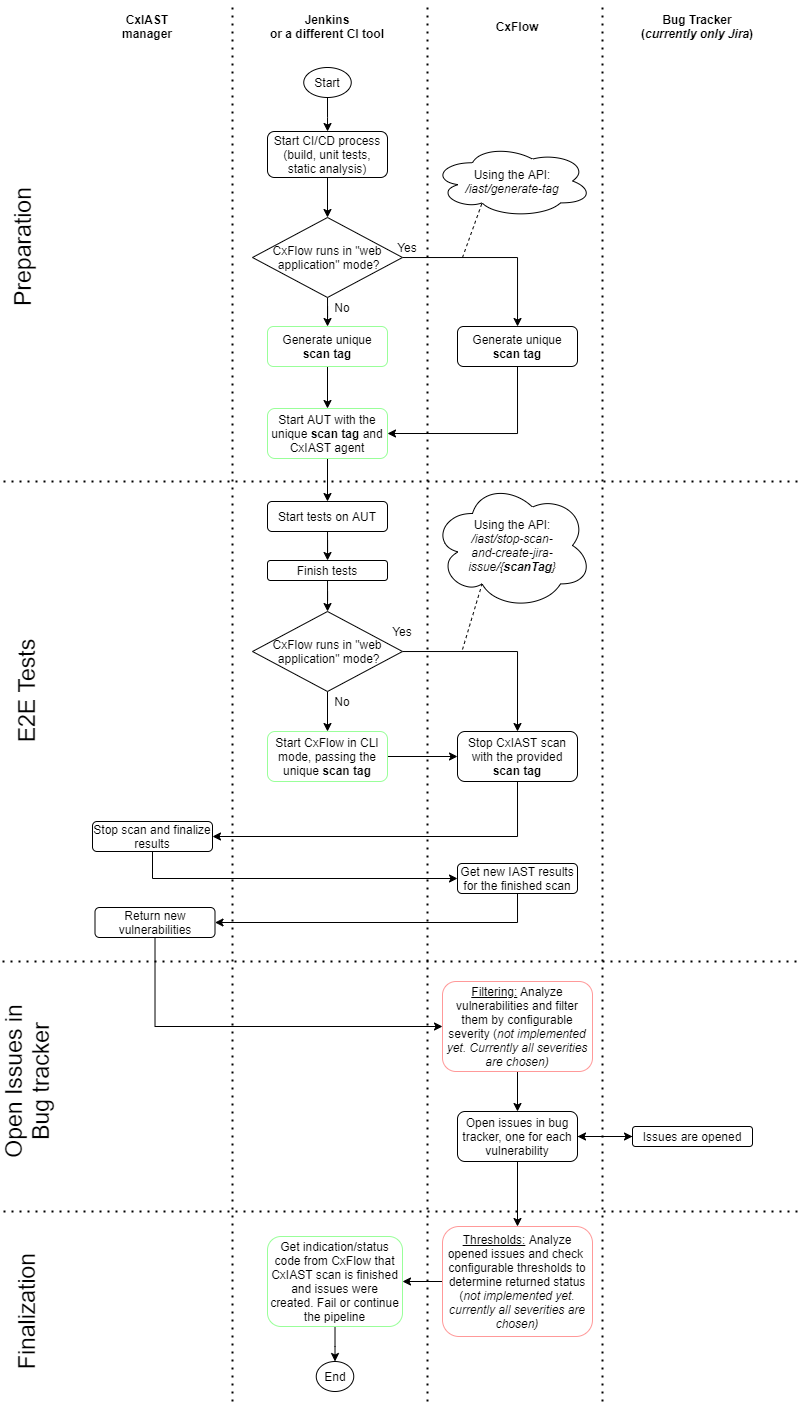
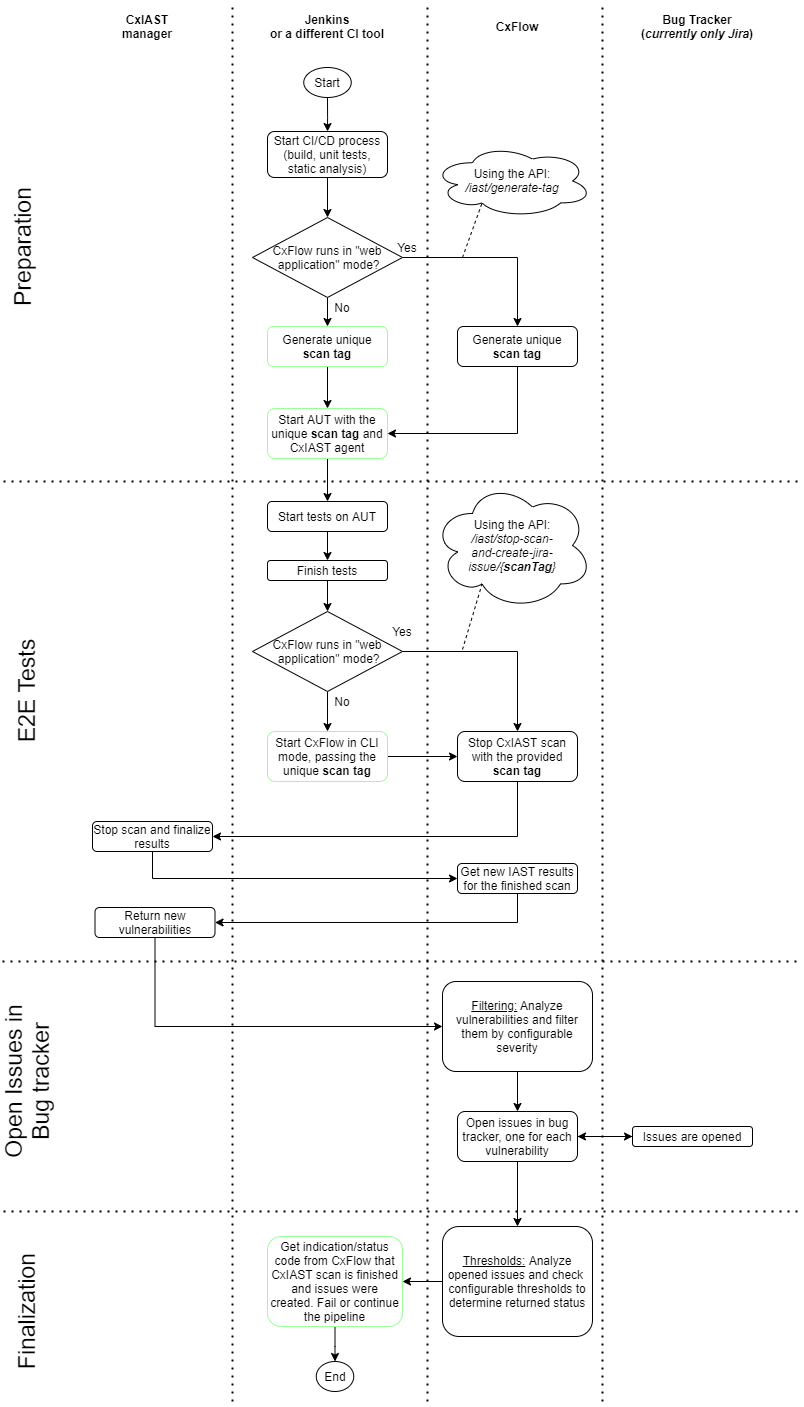
fix documentation. add example of command for start cx-flow and remove old information about not implemented features.

Changed region(s): [[0.5597, 0.8557, 0.7463, 0.9474], [0.5597, 0.7029, 0.7463, 0.764], [0.5908, 0.1222, 0.6841, 0.1528]]

diff --git a/docs/CxIAST-Integration.md b/docs/CxIAST-Integration.md
@@ -3,6 +3,7 @@
 * [Filters](#filters)
 * [Thresholds](#thresholds)
 * [Bug Trackers](#bugTrackers)
+* [Example of CLI command](#exampleOfCli)
 
 ## <a name="suggestedFlow">Suggested Flow</a>
 CxIAST can be integrated within a CI/CD pipeline using CxFlow.  
@@ -28,23 +29,23 @@ iast:
   manager-port: 8380
   username: xxxx
   password: xxxx
-  update-token-seconds: 150  # CxAccessControl token timeout
+  update-token-seconds: 250  # CxAccessControl token timeout
 ```
  
-## <a name="filters">Filters - to be implemented</a>
+## <a name="filters">Filters</a>
 CxFlow may filter CxIAST vulnerabilities according to the vulnerability severity before creating bug tracker tickets.  
 To allow severities, add the relevant severity to the `iast` section in the configuration file:
 ```
 iast:
   filter-severity:
-    - high
-    - medium
-    - low
-    - info    
+    - HIGH
+    - MEDIUM
+    - LOW
+    - INFO    
 ```
-To ignore a severity, remove that severity from the configuration file.
+To ignore a severity, remove or comment that severity from the configuration file.
 
-## <a name="thresholds">Thresholds - to be implemented</a>
+## <a name="thresholds">Thresholds</a>
 CxFlow returns a status the the CI pipeline when called.  
 To control this, a threshold can be configured per vulnerability severity.  
 Each severity threshold is determined by the allowed vulnerability count with that severity.  
@@ -53,13 +54,13 @@ Thresholds are configured in the `iast` section:
 ```
 iast:
   thresholds-severity:
-    high: 1
-    medium: 3
-    low: 10
-    info: -1
+    HIGH: 1
+    MEDIUM: 3
+    LOW: 10
+    INFO: -1
 ```
 When triggered in CLI mode, CxFlow returns status code `10`, if a threshold has been exceeded.  
-When triggered in web mode, the `/iast/stop-scan-and-create-jira-issue/{scanTag}` returns `Threshold exceeded: <threshold information>` in the HTTP body.
+When triggered in web mode, the `/iast/stop-scan-and-create-jira-issue/{scanTag}` returns HTTP status 412.
 
 ## <a name="bugTrackers">Bug Trackers</a>
 At present, CxFlow only supports Jira as a bug tracker when used with CxIAST.  
@@ -73,8 +74,44 @@ The ticket is structured as follows:
 - The **title** field is set to `<CxIAST Vulnerability name>:  <Triggering API URL>`.
 - The **priority** field is set based on the CxIAST vulnerability severity.
 - The **assignee** field is set based on the `--assignee` argument that was passed to CxFlow, or based on the configured Jira username. Refer to [Jira Configuration](https://github.com/checkmarx-ltd/cx-flow/wiki/Bug-Trackers-and-Feedback-Channels#jira) for additional information.
-- The **description** field contains a link to the vulnerability in CxIAST Manager.
-- The **labels** field contains the CxIAST scan tag.
+- The **description** field contains a link to the vulnerability in CxIAST Manager, branch and repository name.
+
 
 An example for a Jira ticket is available here:  
 [[/Images/IAST2.png|Jira ticket example]]
+
+
+## <a name="exampleOfCli">Example of CLI command</a>
+
+```
+java -jar cx-flow-1.6.18.jar 
+--spring.config.location=application.yml
+--iast
+--bug-tracker="jira"
+--assignee="email@mail.com"
+--scan-tag="cx-scan-20"
+--repo-name="checkmarx-ltd/cx-flow"
+--branch="develop"
+```
+
+You can also pass the parameters that you want to set in application.yml
+for example:
+
+```
+java -jar cx-flow-1.6.18.jar 
+--spring.config.location=application.yml
+--iast
+--bug-tracker="jira"
+--assignee="email@mail.com"
+--scan-tag="cx-scan-20"
+--repo-name="checkmarx-ltd/cx-flow"
+--branch="develop"
+
+--jira.username=email@mail.com
+--jira.token=token-xxxx
+--iast.username="user"
+--iast.password="pass"
+--jira.issue-type="Bug"
+...
+```
+
